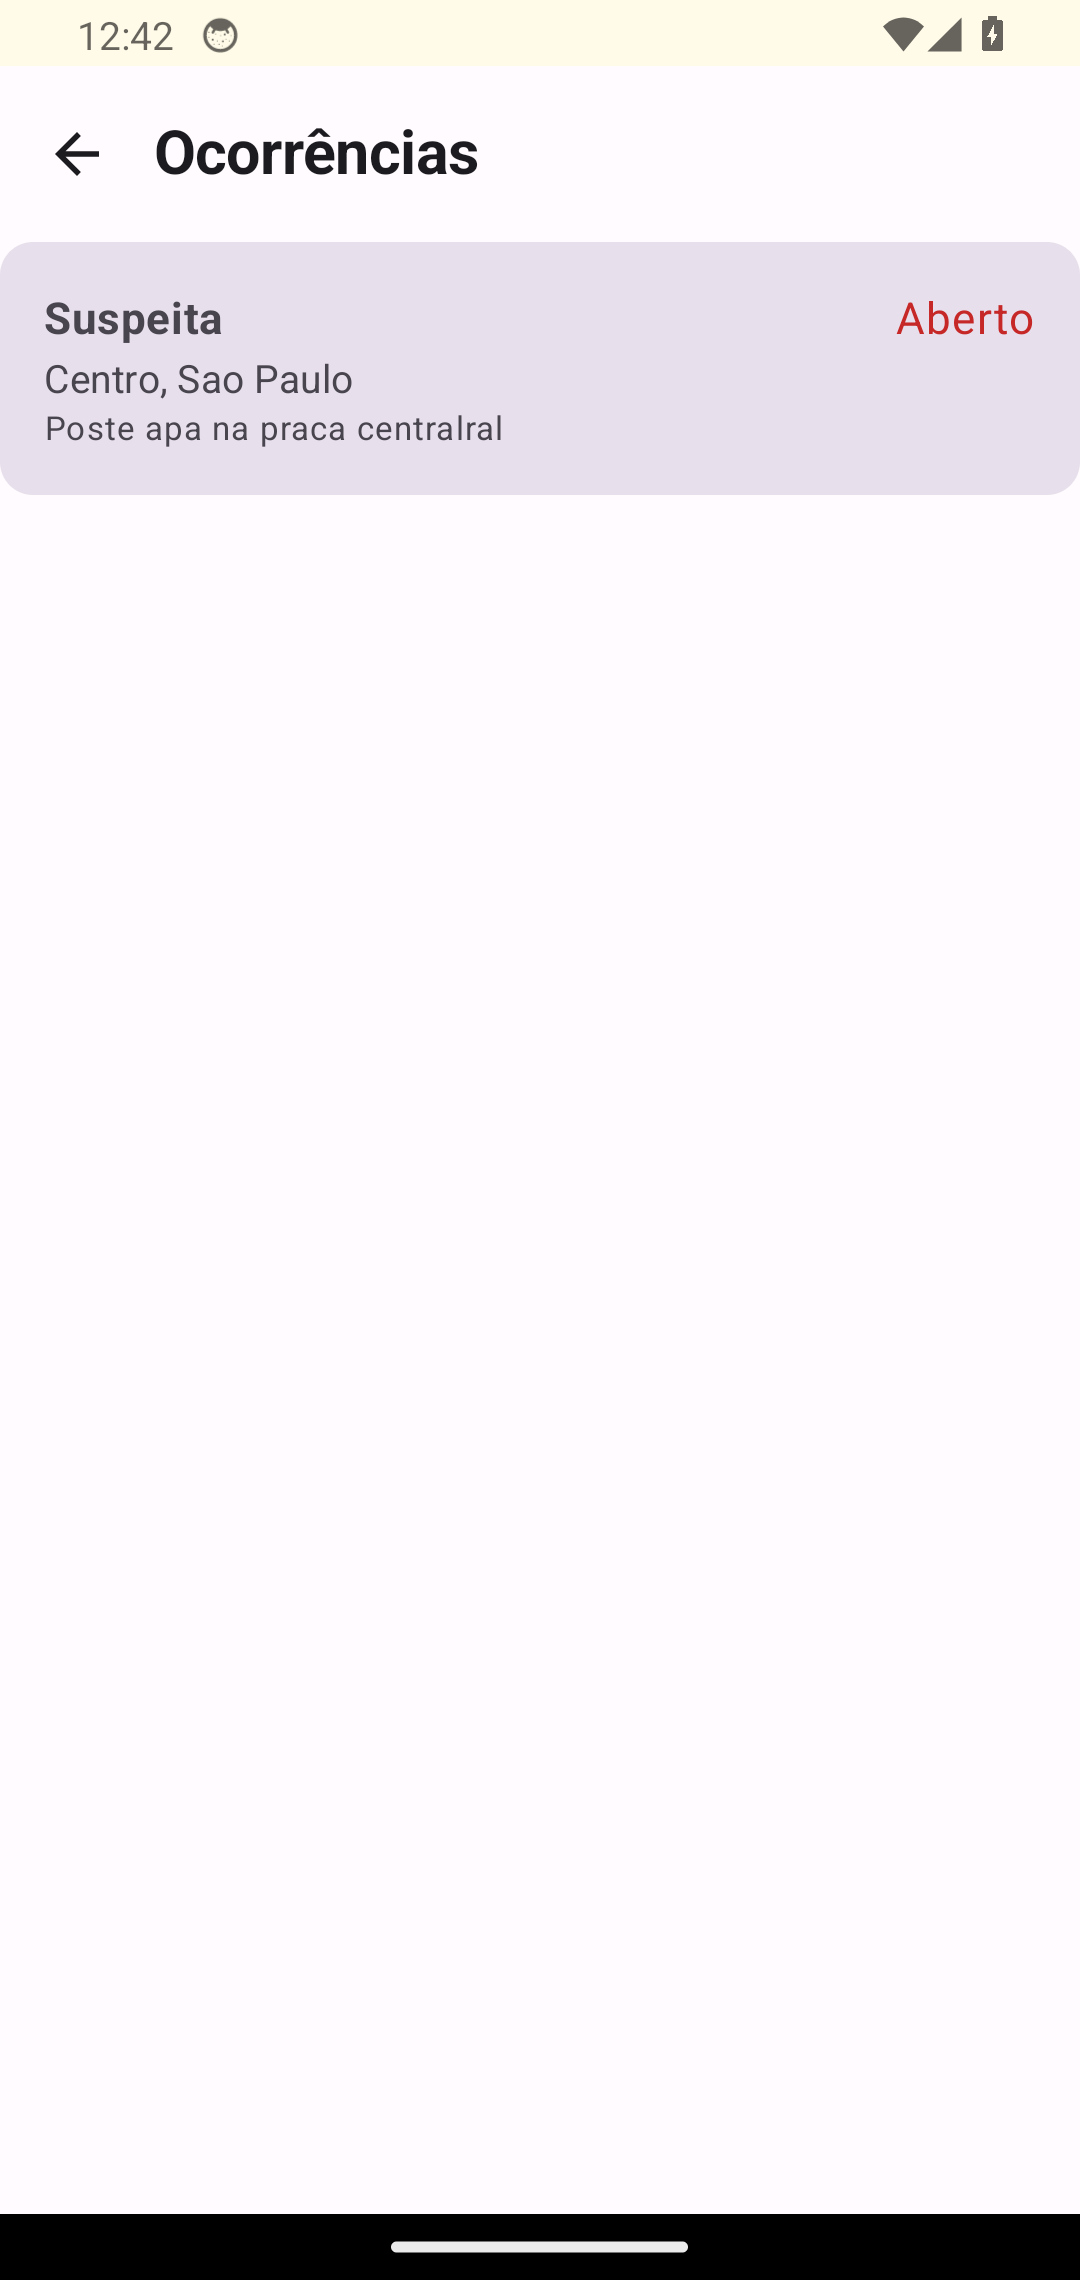
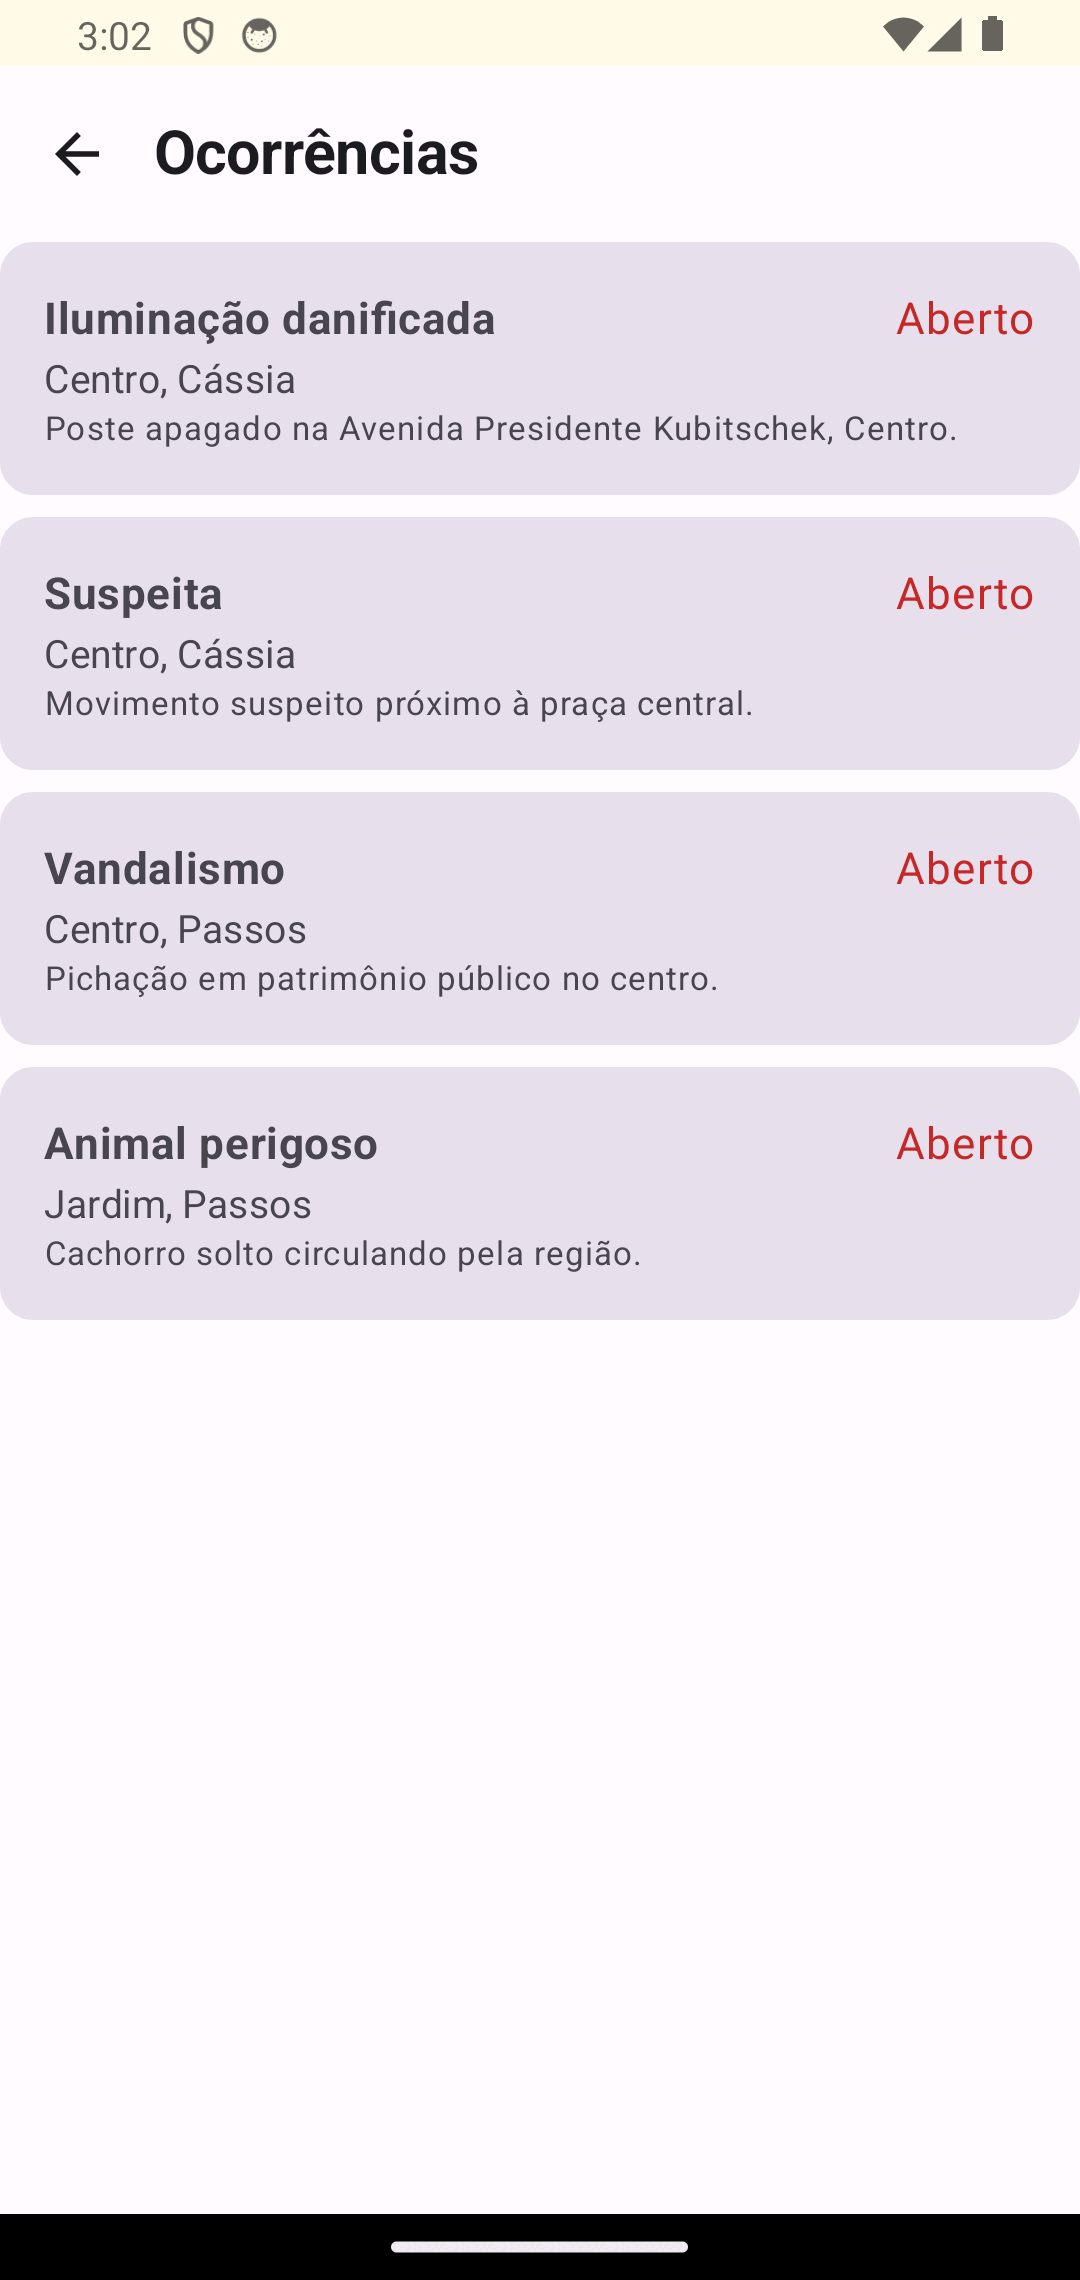
docs: adiciona seed de ocorrencias e atualiza capturas do app

diff --git a/scripts/seed_emulador.py b/scripts/seed_emulador.py
@@ -1,0 +1,104 @@
+#!/usr/bin/env python3
+"""Popula os emuladores locais com usuario de teste e ocorrencias simuladas.
+
+Uso: python3 scripts/seed_emulador.py
+Idempotente: usa IDs fixos e pode rodar novamente apos reiniciar os emuladores.
+"""
+
+import json
+import time
+import urllib.error
+import urllib.request
+
+AUTH = "http://127.0.0.1:9099"
+FIRESTORE = "http://127.0.0.1:8081"
+PROJECT = "vizinho-alerta"
+EMAIL = "teste@exemplo.com"
+SENHA = "Teste@123"
+
+OCORRENCIAS = [
+    ("cassia_1", "Iluminação danificada", "Poste apagado na Avenida Presidente Kubitschek, Centro.", -20.58250, -46.92190, "Cássia", "Centro"),
+    ("cassia_2", "Suspeita", "Movimento suspeito próximo à praça central.", -20.58520, -46.92050, "Cássia", "Centro"),
+    ("passos_1", "Vandalismo", "Pichação em patrimônio público no centro.", -20.71600, -46.61500, "Passos", "Centro"),
+    ("passos_2", "Animal perigoso", "Cachorro solto circulando pela região.", -20.71800, -46.61700, "Passos", "Jardim"),
+]
+
+
+def call(url, method="GET", body=None, headers=None):
+    data = json.dumps(body).encode() if body is not None else None
+    cabecalhos = {"Content-Type": "application/json"}
+    cabecalhos.update(headers or {})
+    req = urllib.request.Request(url, data=data, headers=cabecalhos, method=method)
+    try:
+        with urllib.request.urlopen(req, timeout=15) as resposta:
+            conteudo = resposta.read()
+            return resposta.status, (json.loads(conteudo) if conteudo else {})
+    except urllib.error.HTTPError as erro:
+        return erro.code, json.loads(erro.read() or b"{}")
+
+
+def autenticar():
+    url = f"{AUTH}/identitytoolkit.googleapis.com/v1/accounts:signInWithPassword?key=fake"
+    corpo = {"email": EMAIL, "password": SENHA, "returnSecureToken": True}
+    status, resposta = call(url, "POST", corpo)
+    if status == 200:
+        return resposta
+
+    if resposta.get("error", {}).get("message") != "EMAIL_NOT_FOUND":
+        raise SystemExit(f"Falha no login: {status} {resposta}")
+
+    status, resposta = call(
+        f"{AUTH}/identitytoolkit.googleapis.com/v1/accounts:signUp?key=fake",
+        "POST",
+        corpo,
+    )
+    if status != 200:
+        raise SystemExit(f"Falha ao criar usuario: {status} {resposta}")
+    print("Usuario de teste criado.")
+    return resposta
+
+
+def main():
+    usuario = autenticar()
+    uid, token = usuario["localId"], usuario["idToken"]
+    agora = int(time.time() * 1000)
+
+    for indice, (doc, tipo, descricao, lat, lng, cidade, bairro) in enumerate(OCORRENCIAS):
+        campos = {
+            "userId": {"stringValue": uid},
+            "usuarioNome": {"stringValue": "Alvaro Teste"},
+            "tipo": {"stringValue": tipo},
+            "descricao": {"stringValue": descricao},
+            "lat": {"doubleValue": lat},
+            "lng": {"doubleValue": lng},
+            "situacao": {"stringValue": "registrado"},
+            "cidade": {"stringValue": cidade},
+            "bairro": {"stringValue": bairro},
+            "status": {"stringValue": "aberto"},
+            "createdAt": {"integerValue": str(agora - indice * 3600000)},
+        }
+        caminho = f"{FIRESTORE}/v1/projects/{PROJECT}/databases/(default)/documents/ocorrencias/{doc}"
+        autenticacao = {"Authorization": f"Bearer {token}"}
+        status, _ = call(caminho, headers=autenticacao)
+        if status == 200:
+            print(f"  {doc}: ja existe")
+            continue
+        if status != 404:
+            raise SystemExit(f"Falha ao consultar {doc}: {status}")
+
+        status, resposta = call(
+            f"{FIRESTORE}/v1/projects/{PROJECT}/databases/(default)/documents/ocorrencias"
+            f"?documentId={doc}",
+            "POST",
+            {"fields": campos},
+            autenticacao,
+        )
+        if status != 200:
+            raise SystemExit(f"Falha ao gravar {doc}: {status} {resposta}")
+        print(f"  {doc}: {cidade} - {tipo} criada")
+
+    print(f"Pronto. {len(OCORRENCIAS)} ocorrencias simuladas em {PROJECT}.")
+
+
+if __name__ == "__main__":
+    main()

diff --git a/README.md b/README.md
@@ -162,6 +162,16 @@ Abra o projeto no Android Studio → **File** → **Sync Project with Gradle Fil
 ### 3. Executar
 Compile e rode no emulador ou dispositivo físico.
 
+### 4. Dados simulados (emulador)
+
+Com os emuladores locais de Auth/Firestore rodando, popular o app com o usuário de teste e 4 ocorrências em Cássia/MG e Passos/MG:
+
+```bash
+python3 scripts/seed_emulador.py
+```
+
+O script é idempotente (IDs fixos) e pode ser executado novamente após reiniciar os emuladores. Login: `teste@exemplo.com` / `Teste@123`.
+
 ## Testes
 
 ### Testes Unitários
